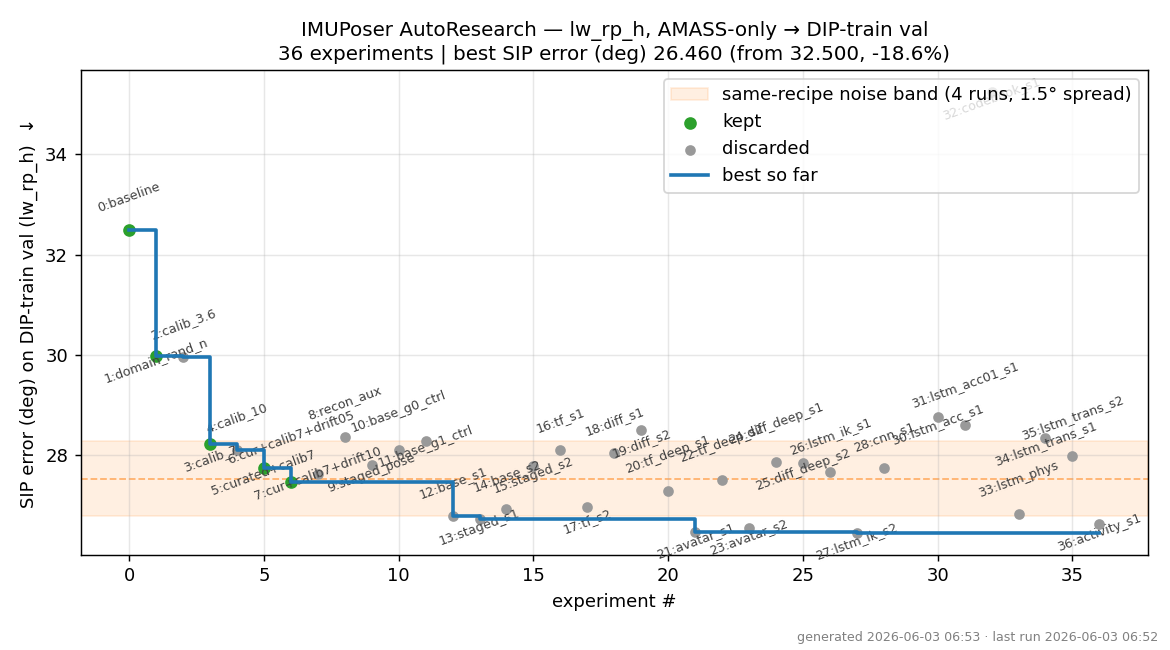
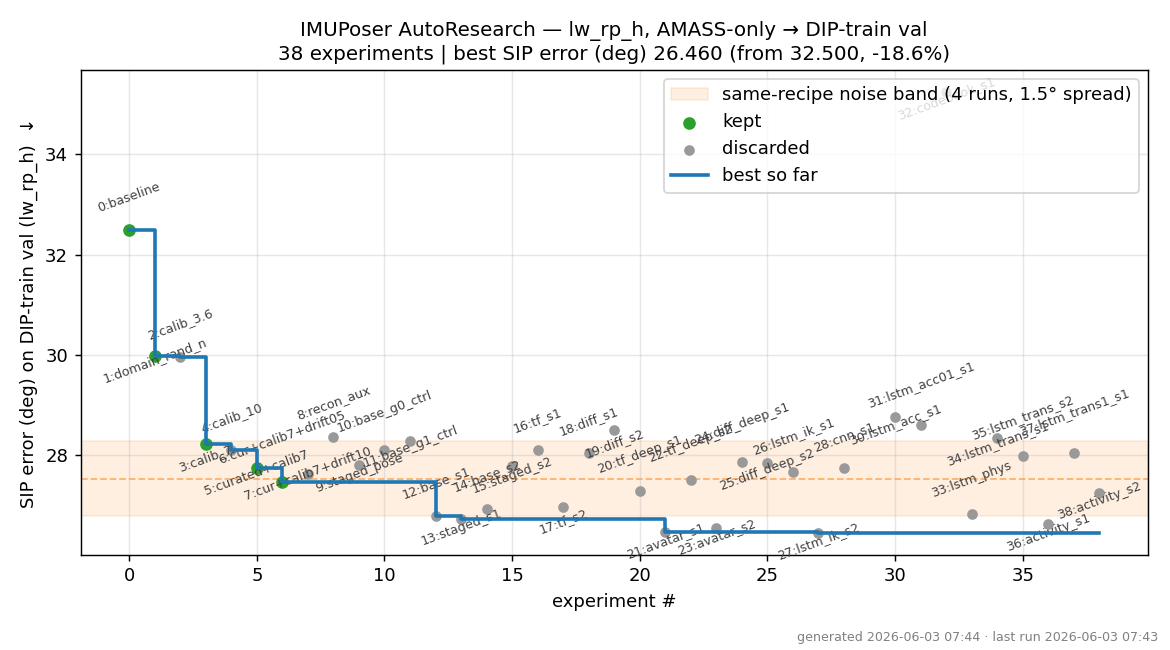
ar exp37,38: translation aux refuted (gentle W=1 also hurts, 28.05); activity-conditioned neutral
Gentle TRANS_W=1 = 28.05 (+1.26) -> translation aux hurts at every weight. Activity-conditioned seed2
27.26 -> across seeds {-0.16,+0.33} ~ neutral/inconsistent. Both new hypotheses land: translation HURTS,
activity NEUTRAL. AvatarPoser IK-weight sweep (AP_IK_W=2, exp39/40) running. Doc + graph updated.

diff --git a/ADDITIONAL_EXPERIMENTS.md b/ADDITIONAL_EXPERIMENTS.md
@@ -344,3 +344,25 @@ critically-damped 2nd-order rotational dynamics, PD-actuated toward the network 
   the smoothness improvement physics-based methods report. So physics helps the dimension it's meant to;
   our root-relative-rotation eval just doesn't score jitter/translation/contact. (Net: not a SIP lever
   *for this metric*, but the simulator is correct and behaves as the literature predicts.)
+
+### Translation aux (predict root velocity) HURTS pose (exp34/35/37)
+
+User hypothesis: predicting translation should help body pose (multi-task). Tested LSTM + a per-frame
+root-VELOCITY head (absolute position is unobservable from IMU; velocity is the learnable TransPose-style
+target), trained on AMASS (DIP's tran is ~0). Result vs plain LSTM (26.79/26.93):
+- TRANS_W=10: 28.34 (s1) / 27.98 (s2) -> +1.5 / +1.0 WORSE
+- TRANS_W=1 (gentle): 28.05 (s1) -> +1.26 WORSE
+Weight-independent degradation => the velocity task genuinely competes with / distracts the shared LSTM
+from joint-rotation features. Predicting translation as a shared-trunk multi-task aux does NOT help (hurts)
+this root-relative pose metric. (A separate translation *decoder* off frozen pose features might differ,
+but the multi-task-helps-pose hypothesis is refuted here.)
+
+### Activity-conditioned pose (predict activity -> condition pose) is NEUTRAL (exp36/38)
+
+User hypothesis: predict the activity first, condition pose on it. No activity labels exist, so used
+pseudo-activities (k-means K=16 on mean-pose); ActivityIMUPoser predicts the activity from window-pooled
+IMU (CE vs pseudo-label) and conditions a 2nd pose RNN on the predicted-activity embedding. Result vs
+plain LSTM (26.79/26.93): seed1 26.63 (-0.16), seed2 27.26 (+0.33) -> mean ~neutral, inconsistent,
+within the ~1.5deg noise floor (and Angle/Joint slightly worse). Like staged / IK-on-LSTM: the explicit
+high-level bottleneck doesn't add information the LSTM doesn't already extract. (Real activity labels +
+a stronger activity signal might differ, but pseudo-activity conditioning is neutral here.)
